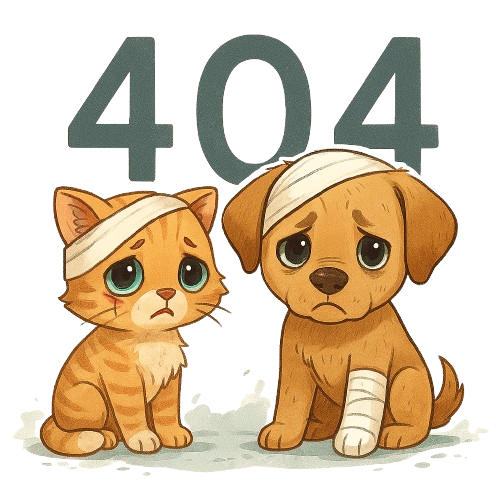
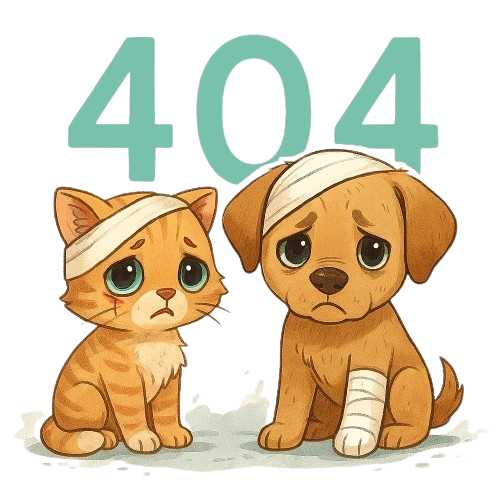
Modifiqué los colores del título y la imagen de la página de error404

diff --git a/src/components/pages/error404/Error404.jsx b/src/components/pages/error404/Error404.jsx
@@ -2,7 +2,7 @@ function Error404() {
   return (
     <>
       <div className="d-flex flex-column align-items-center">
-        <h1 className="text-center mt-4 mx-1">UPS! Esta página se perdió como nosotros</h1>
+        <h1 className="text-center mt-4 mx-1 text-primary">UPS! Esta página se perdió como nosotros</h1>
         <img src="../images/error404.png" alt="Error404" className="img-error404"/>
       </div>
     </>

diff --git a/src/App.jsx b/src/App.jsx
@@ -1,13 +1,10 @@
 import Error404 from "./components/pages/error404/Error404";
-import { useState } from 'react'
-import reactLogo from './assets/react.svg'
-import viteLogo from '/vite.svg'
-import './App.css'
 import './index.css'
 
 function App() {
   return (
     <>
+      <Error404 />
     </>
   );
 }

diff --git a/src/index.css b/src/index.css
@@ -1,5 +1,5 @@
 .img-error404 {
-  width: 50%;
+  width: 75%;
   height: auto;
   max-width: 600px;
   max-height: 600px;
